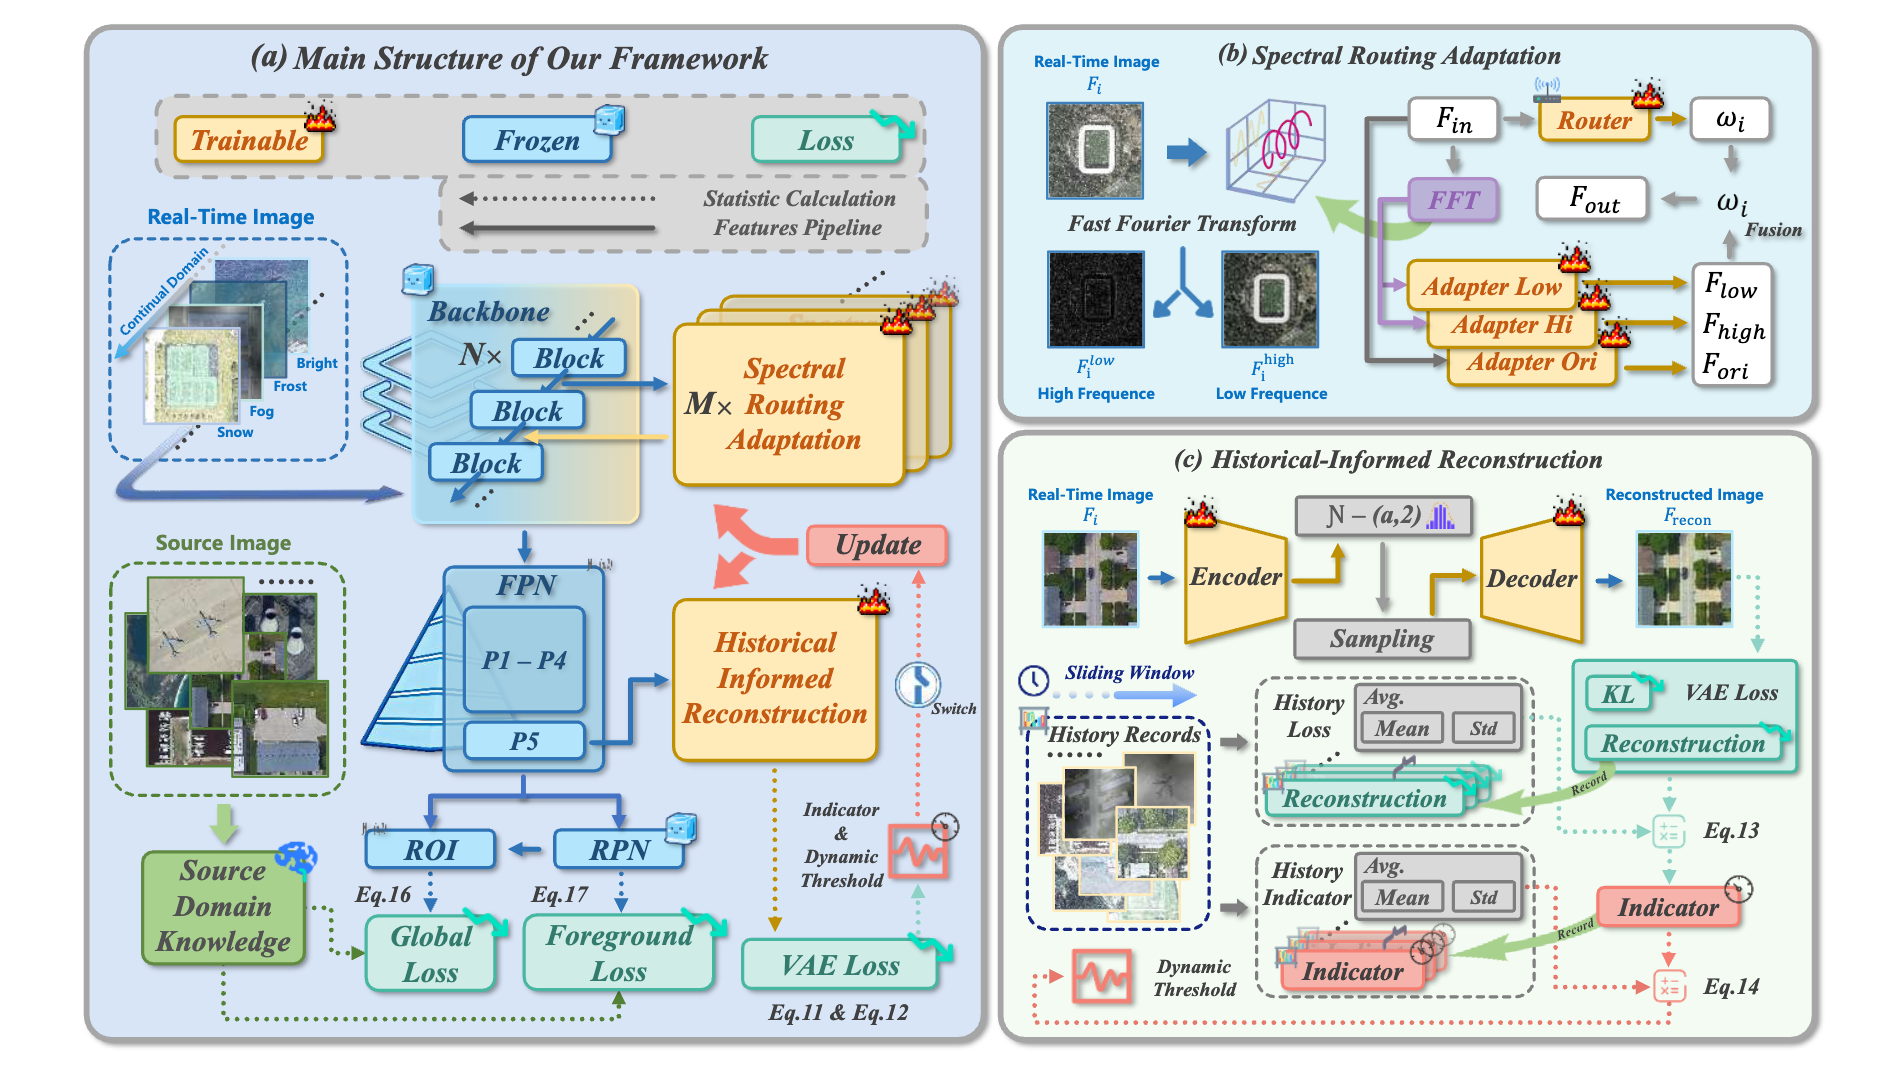
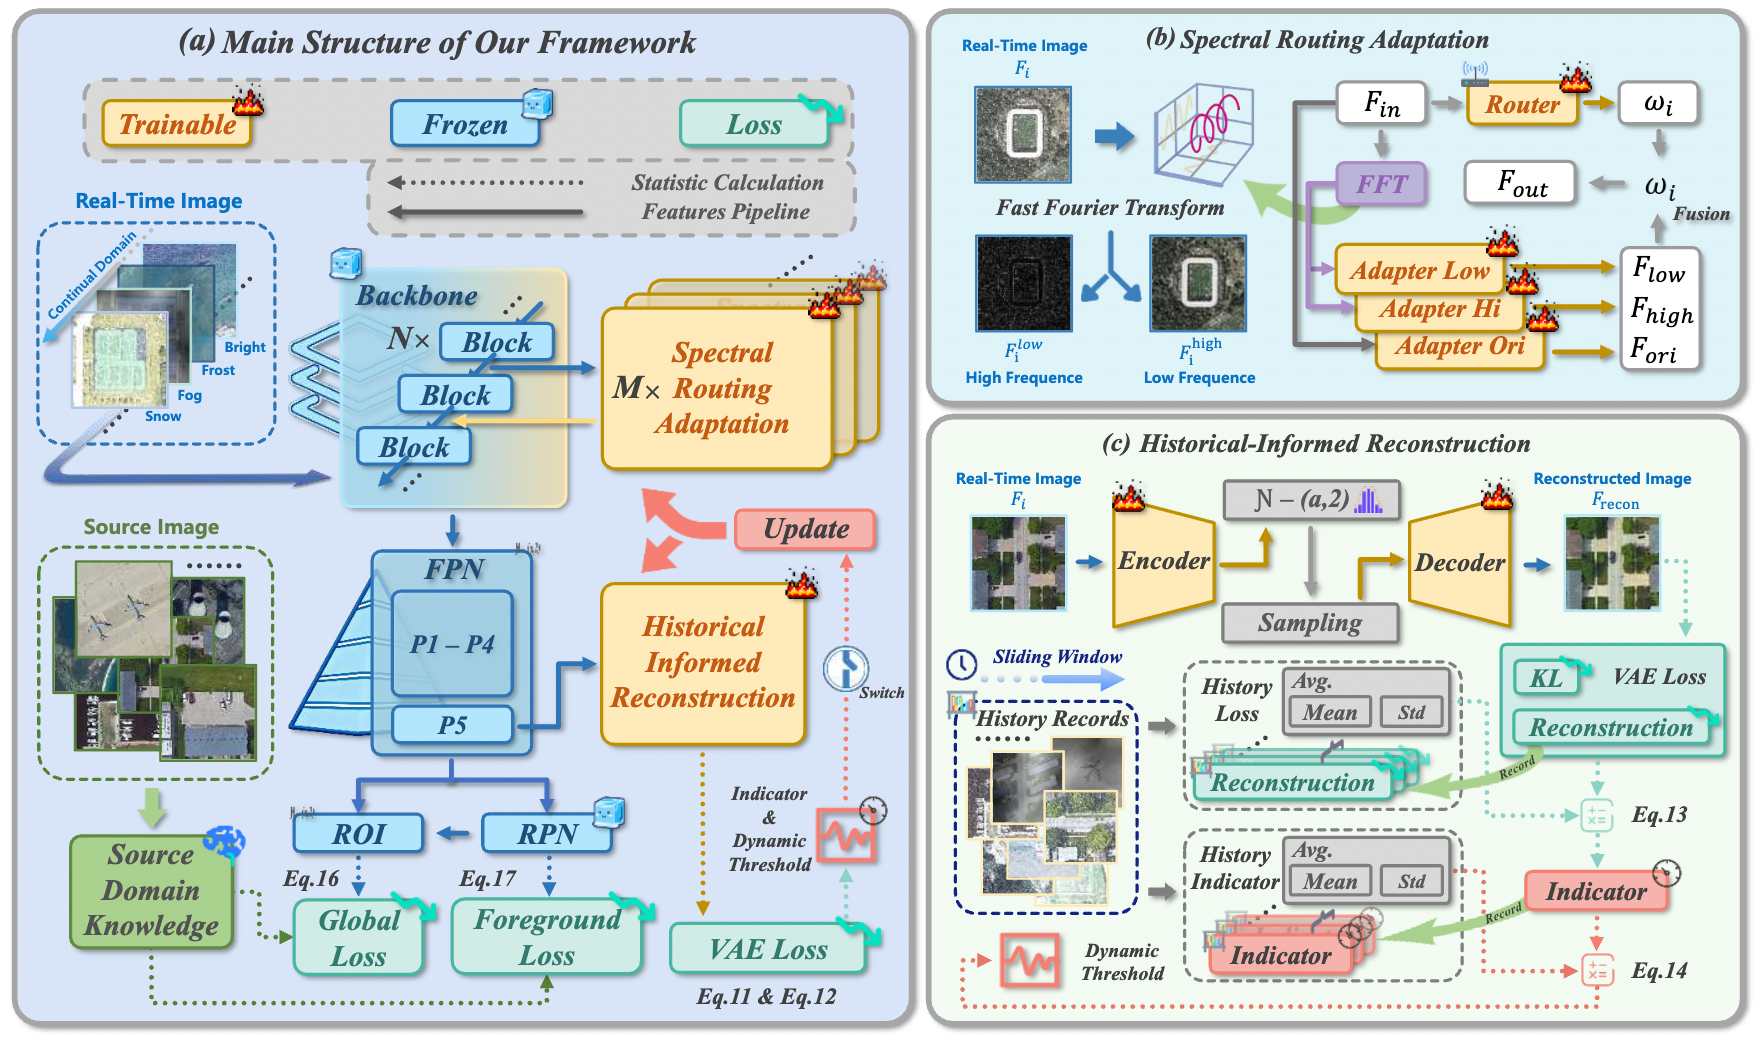
Add code links for COUD and CTAOD-RS

diff --git a/_pages/about.md b/_pages/about.md
@@ -81,7 +81,7 @@ I am a Lecturer at <a href="https://www.ynnu.edu.cn/">Yunnan Normal University</
 <div class="paper-title">Continual Test-Time Adaptive Object Detection in Remote Sensing Images via Spectral Routing and Historical Reconstruction</div>
 <div class="paper-authors">Mingjing Yong, <b>Nanqing Liu*</b>, Sen Lei, Jie Pan, Xue Yang, Heng-Chao Li</div>
 <div class="paper-venue">IEEE Transactions on Circuits and Systems for Video Technology (<b>TCSVT</b>), 2026</div>
-<div><a href="https://ieeexplore.ieee.org/document/11503284" class="btn-link btn-paper">Paper</a> <a href="files/bibtex/cttaodrs2026.bib" class="btn-link btn-bib">Bibtex</a></div>
+<div><a href="https://ieeexplore.ieee.org/document/11503284" class="btn-link btn-paper">Paper</a> <a href="https://github.com/rosou1/CTAOD-RS" class="btn-link btn-code">Code</a> <a href="files/bibtex/cttaodrs2026.bib" class="btn-link btn-bib">Bibtex</a></div>
 </div>
 </div>
 
@@ -243,7 +243,7 @@ I am a Lecturer at <a href="https://www.ynnu.edu.cn/">Yunnan Normal University</
 <div class="paper-title">COUD: Continual Urbanization Detector for Time Series Building Change Detection</div>
 <div class="paper-authors">Yitao Zhao, Heng-Chao Li, Sen Lei, <b>Nanqing Liu</b>, Jie Pan, Turgay Celik</div>
 <div class="paper-venue">IEEE Journal of Selected Topics in Applied Earth Observations and Remote Sensing (<b>JSTARS</b>), 2024</div>
-<div><a href="https://ieeexplore.ieee.org/document/10720916" class="btn-link btn-paper">Paper</a> <a href="files/bibtex/coud2024.bib" class="btn-link btn-bib">Bibtex</a></div>
+<div><a href="https://ieeexplore.ieee.org/document/10720916" class="btn-link btn-paper">Paper</a> <a href="https://github.com/MarsZhaoYT/TSCD-Dataset" class="btn-link btn-code">Code</a> <a href="files/bibtex/coud2024.bib" class="btn-link btn-bib">Bibtex</a></div>
 </div>
 </div>
 
